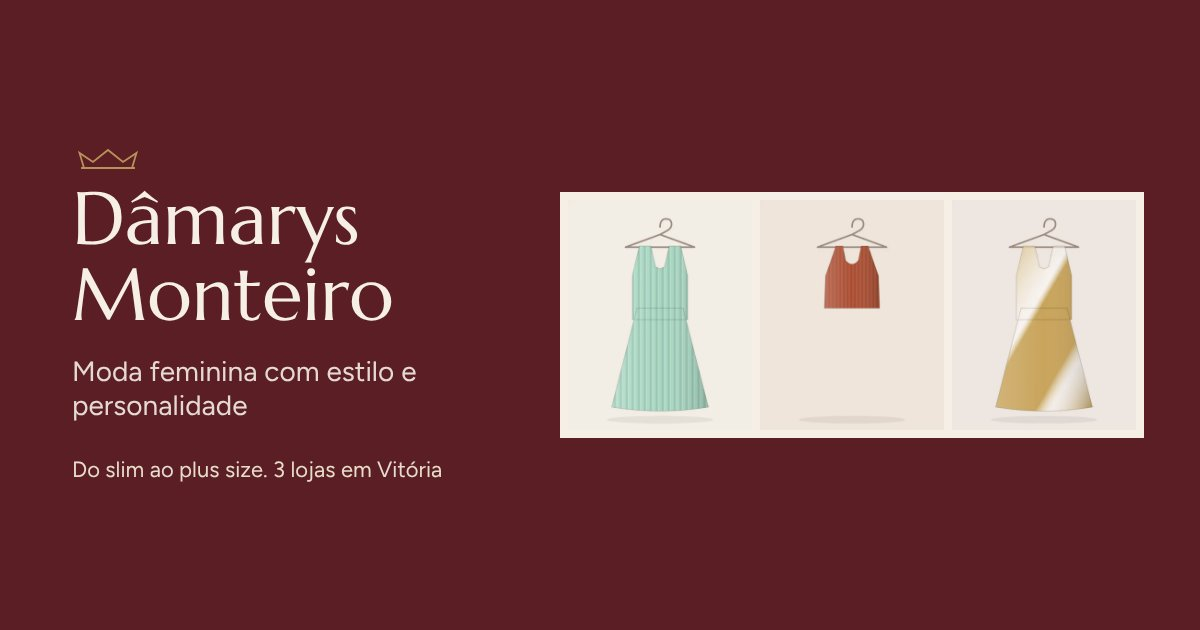
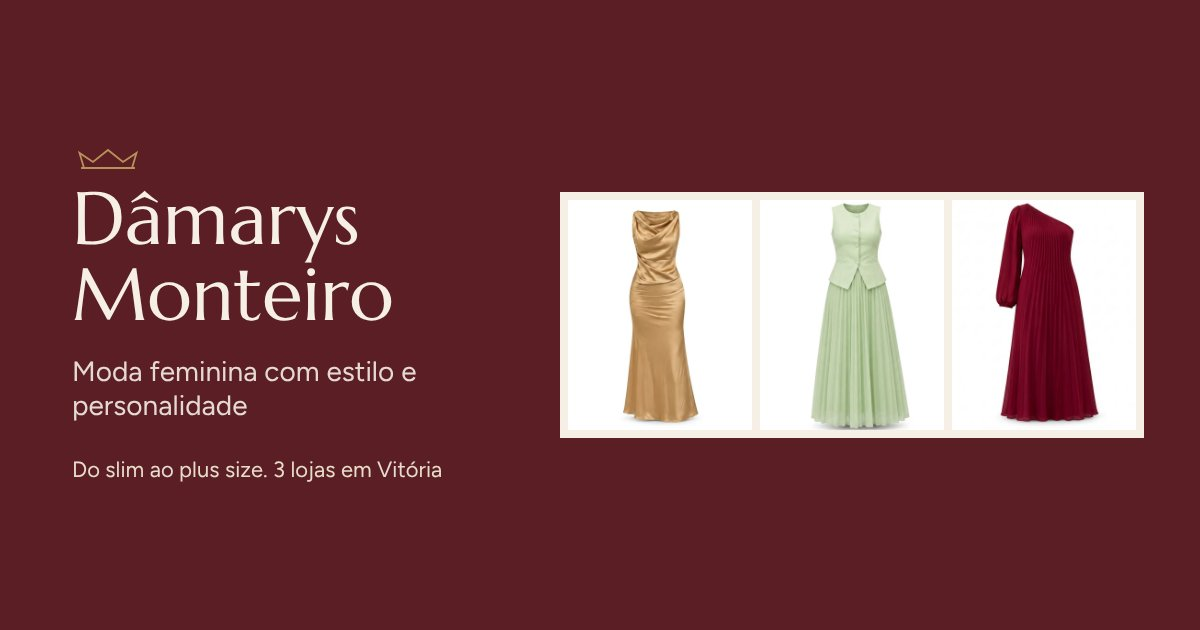
Usa fotos reais em cinco produtos da demonstração
Vestido acetinado dourado, conjunto colete e saia plissada, conjunto camisa e
pantalona, macacão canelado Toque Macio e vestido plissado de um ombro, com
foto de detalhe. Vitrine, destaques e imagem de compartilhamento atualizadas.

Claude-Session: https://claude.ai/code/session_01CTmEJaV97G6MbQJsa9tria

Changed region(s): [[0.4625, 0.3016, 0.9558, 0.6937]]

diff --git a/scripts/gerar-imagens-exemplo.ts b/scripts/gerar-imagens-exemplo.ts
@@ -1,5 +1,6 @@
 // Gera as imagens ILUSTRATIVAS dos produtos de exemplo (public/produtos/*.webp).
 // Servem só para a demonstração: em um cliente real, use as fotos das peças
+// (peças que já têm foto real NÃO estão nesta lista, para não serem sobrescritas)
 // (veja scripts/otimizar-imagens.ts). Uso: npm run imagens:exemplo
 
 import { mkdir } from 'node:fs/promises'
@@ -17,16 +18,12 @@ interface Peca { id: string; forma: Forma; cor: string; estampa: Estampa; fundo:
 const pecas: Peca[] = [
   { id: 'cropped-trico-canelado', forma: 'cropped', cor: '#B5563A', estampa: 'canelado', fundo: '#EFE4DA' },
   { id: 'calca-alfaiataria-oliva', forma: 'calca', cor: '#6B6B3A', estampa: 'liso', fundo: '#ECE6DA', detalhe: 'cinto' },
-  { id: 'conjunto-colete-saia-plissada', forma: 'conjunto', cor: '#A9D8C3', estampa: 'plissado', fundo: '#F2ECE4' },
-  { id: 'conjunto-acetinado-dourado', forma: 'conjunto', cor: '#C9A45C', estampa: 'acetinado', fundo: '#EFE6E0' },
   { id: 'camisa-gola-perolas', forma: 'camisa', cor: '#FBFAF7', estampa: 'liso', fundo: '#E8DCCB', detalhe: 'perolas' },
   { id: 'camisa-amarracao', forma: 'camisa', cor: '#FBFAF7', estampa: 'liso', fundo: '#E3E6EA', detalhe: 'amarracao' },
   { id: 'conjunto-camisa-short-menta', forma: 'conjunto-short', cor: '#A9D8C3', estampa: 'liso', fundo: '#F1ECE5' },
-  { id: 'conjunto-toque-macio', forma: 'conjunto-calca', cor: '#5A1E24', estampa: 'canelado', fundo: '#EDE3DA' },
   { id: 'blusa-viscose', forma: 'blusa', cor: '#E3A5B4', estampa: 'liso', fundo: '#F2EAE6' },
   { id: 'blusa-laco', forma: 'blusa', cor: '#5A1E24', estampa: 'acetinado', fundo: '#EDE6E0', detalhe: 'laco' },
   { id: 'vestido-midi-envelope', forma: 'vestido-midi', cor: '#1F2C4D', estampa: 'liso', fundo: '#E6E4E2', detalhe: 'amarracao' },
-  { id: 'vestido-longo-festa', forma: 'vestido-longo', cor: '#1F6B52', estampa: 'acetinado', fundo: '#ECE6DF' },
   { id: 'saia-midi-plissada', forma: 'saia-midi', cor: '#DCC4AE', estampa: 'plissado', fundo: '#EDE7E2' },
   { id: 'saia-lapis', forma: 'saia-lapis', cor: '#26211F', estampa: 'liso', fundo: '#EAE3DC' },
   { id: 'calca-pantalona-linho', forma: 'calca', cor: '#D9C3A5', estampa: 'liso', fundo: '#EBE5DE' },

diff --git a/src/config/loja.config.ts b/src/config/loja.config.ts
@@ -100,20 +100,20 @@ export const loja: ConfigLoja = {
 
   campanha: {
     titulo: 'Coleção nova',
-    texto: 'Conjuntos, tricô e alfaiataria em tons de vinho, menta e oliva. Conforto que veste e valoriza.',
+    texto: 'Cetim, plissados e alfaiataria em dourado, menta e vinho. Conforto que veste e valoriza.',
     botao: 'Ver a coleção',
     link: '/catalogo?tag=novidade',
-    produtosVitrine: ['conjunto-colete-saia-plissada', 'cropped-trico-canelado', 'conjunto-acetinado-dourado'],
+    produtosVitrine: ['vestido-acetinado-dourado', 'conjunto-colete-saia-plissada', 'vestido-plissado-um-ombro'],
   },
 
   // Círculos da home, como os destaques do Instagram. `link` pode ser uma categoria ou uma coleção filtrada.
   destaques: [
-    { nome: 'Novidades', link: '/catalogo?tag=novidade', imagem: '/produtos/conjunto-acetinado-dourado-1.webp' },
+    { nome: 'Novidades', link: '/catalogo?tag=novidade', imagem: '/produtos/vestido-acetinado-dourado-2.webp' },
     { nome: 'Blusas e camisas', link: '/catalogo/blusas-e-camisas', imagem: '/produtos/camisa-gola-perolas-1.webp' },
-    { nome: 'Conjuntos', link: '/catalogo/conjuntos', imagem: '/produtos/conjunto-toque-macio-1.webp' },
-    { nome: 'Vestidos e saias', link: '/catalogo/vestidos-e-saias', imagem: '/produtos/vestido-longo-festa-1.webp' },
+    { nome: 'Conjuntos', link: '/catalogo/conjuntos', imagem: '/produtos/conjunto-colete-saia-plissada-2.webp' },
+    { nome: 'Vestidos e saias', link: '/catalogo/vestidos-e-saias', imagem: '/produtos/vestido-plissado-um-ombro-2.webp' },
     { nome: 'Calças', link: '/catalogo/calcas', imagem: '/produtos/calca-alfaiataria-oliva-1.webp' },
-    { nome: 'Plus Size', link: '/catalogo?tag=plus+size', imagem: '/produtos/vestido-plus-floral-1.webp' },
+    { nome: 'Plus Size', link: '/catalogo?tag=plus+size', imagem: '/produtos/conjunto-camisa-pantalona-2.webp' },
     { nome: 'Promo', link: '/catalogo?promo=1', imagem: '/produtos/blusa-viscose-1.webp' },
   ],
 
